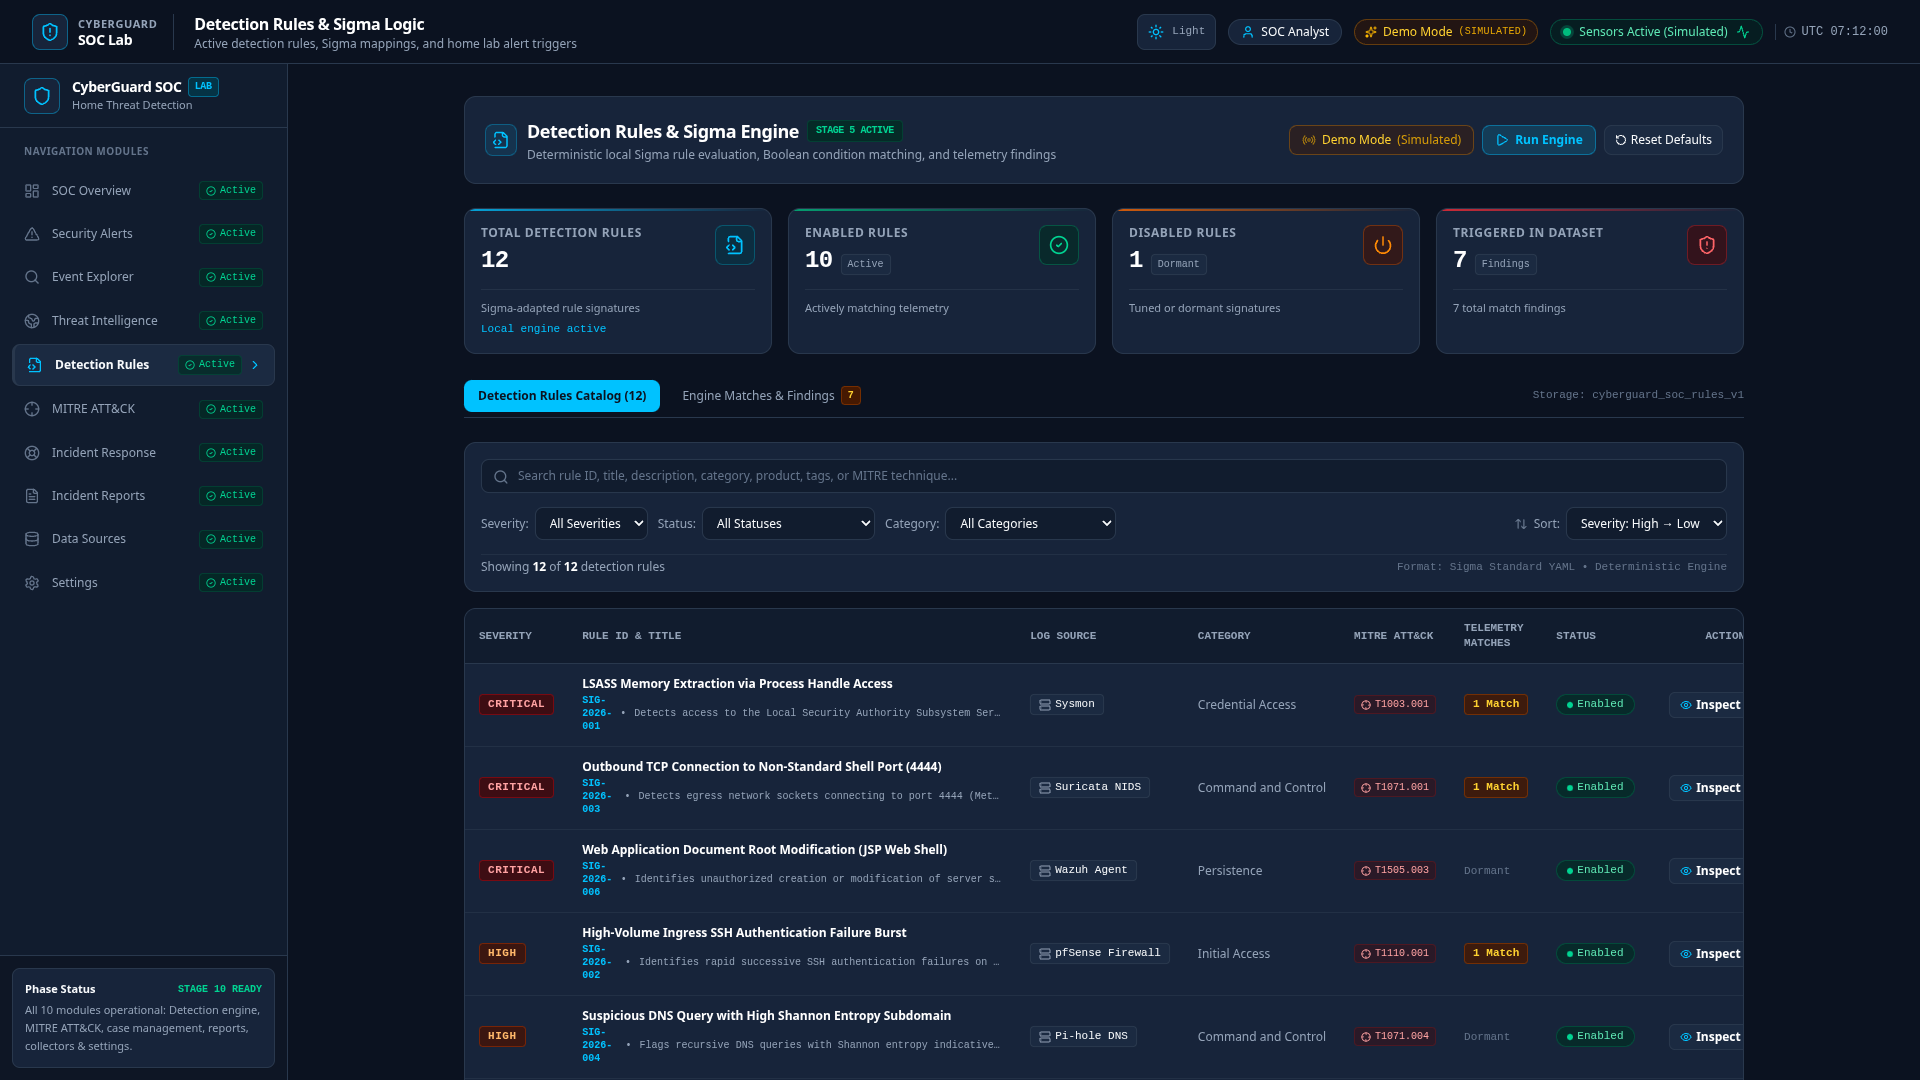
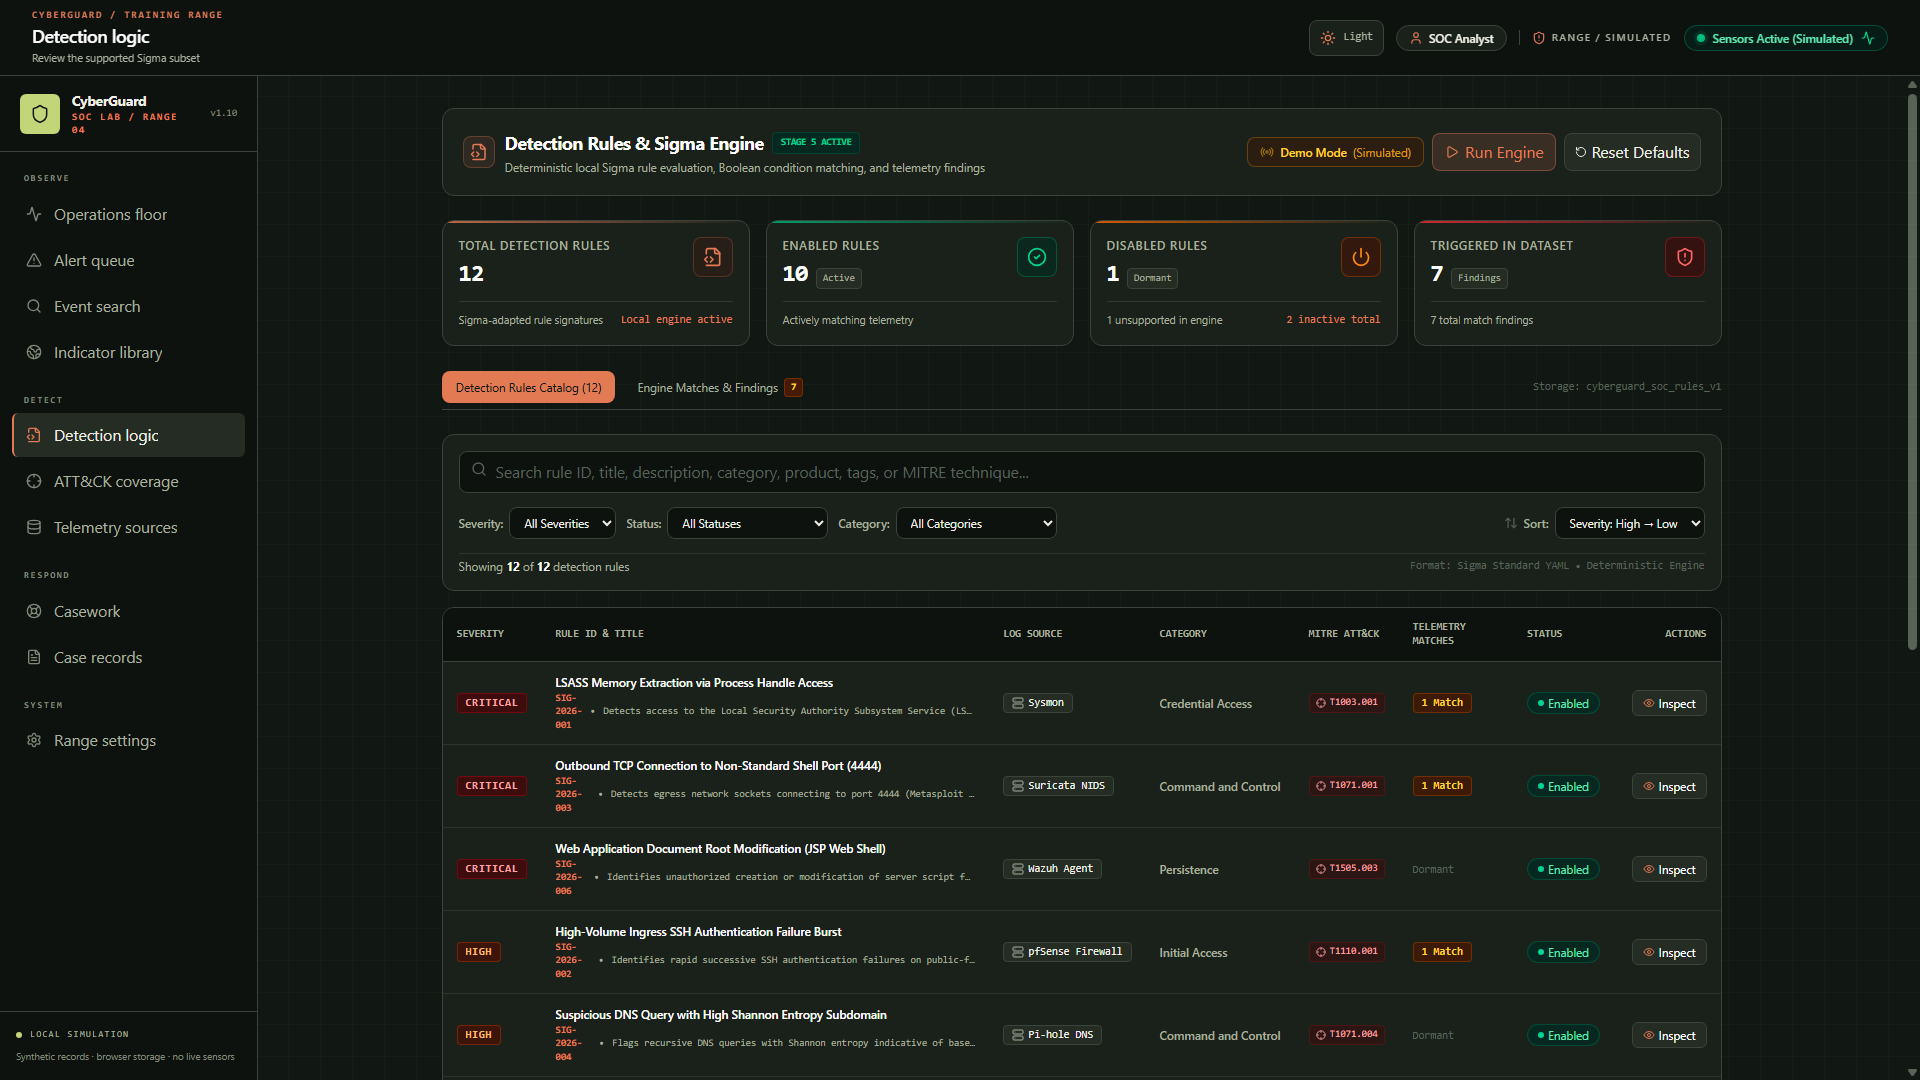
Refresh screenshots for operations workbench UI

diff --git a/docs/screenshots/README.md b/docs/screenshots/README.md
@@ -10,22 +10,18 @@ The 12 standardized screenshot assets included in this repository are:
 
 | # | Filename | Module & Description | Theme | Resolution |
 |---|---|---|---|---|
-| 01 | `01-soc-overview-dark.png` | Stage 1: SOC Overview Dashboard (KPI cards, Telemetry Trends, Severity Breakdown, Recent Events) | Dark Mode | 1920 × 1080 |
-| 02 | `02-security-alerts-dark.png` | Stage 2: Security Alerts Triage Queue (Alert filters, queue table, severity pills) | Dark Mode | 1920 × 1080 |
-| 03 | `03-event-explorer-dark.png` | Stage 3: Event Explorer (Telemetry table, log source filters, pagination) | Dark Mode | 1920 × 1080 |
-| 04 | `04-threat-intelligence-dark.png` | Stage 4: Threat Intelligence & Risk Analysis (Defanged IOCs, risk scores, confidence indicators) | Dark Mode | 1920 × 1080 |
-| 05 | `05-sigma-detection-rules-dark.png` | Stage 5: Sigma Detection Rules (Catalog, local engine status, toggle controls, findings) | Dark Mode | 1920 × 1080 |
-| 06 | `06-mitre-attack-dark.png` | Stage 6: MITRE ATT&CK Mapping (Curated Enterprise matrix grid, coverage breakdown) | Dark Mode | 1920 × 1080 |
-| 07 | `07-incident-response-dark.png` | Stage 7: Incident Response (Incident case queue, priorities, lifecycle statuses) | Dark Mode | 1920 × 1080 |
-| 08 | `08-incident-reports-dark.png` | Stage 8: Incident Reports (Investigation reports archive and status overview) | Dark Mode | 1920 × 1080 |
-| 09 | `09-data-sources-dark.png` | Stage 9: Data Sources & Log Collectors (Simulated collector health cards & statuses) | Dark Mode | 1920 × 1080 |
-| 10 | `10-settings-dark.png` | Stage 10: Settings & Simulation Controls (Storage & System Information breakdown) | Dark Mode | 1920 × 1080 |
-| 11 | `11-soc-overview-light.png` | Stage 1: SOC Overview Dashboard in High-Contrast Light Mode | Light Mode | 1920 × 1080 |
-| 12 | `12-light-mode-overview.png` | Stage 2: Security Alerts & Triage Queue in High-Contrast Light Mode | Light Mode | 1920 × 1080 |
+| 01 | `01-operations-floor-dark.png` | Operations floor with focus case, alert triage, range metrics, activity and source health | Dark Mode | 1920 × 1080 |
+| 02 | `02-security-alerts-dark.png` | Alert queue with search, filters, severity, ownership and triage actions | Dark Mode | 1920 × 1080 |
+| 03 | `03-event-explorer-dark.png` | Event search with telemetry filters, results table and pagination | Dark Mode | 1920 × 1080 |
+| 04 | `04-threat-intelligence-dark.png` | Indicator library with risk scores, confidence and correlation details | Dark Mode | 1920 × 1080 |
+| 05 | `05-sigma-detection-rules-dark.png` | Detection logic catalog with rule state, findings and supported Sigma subset | Dark Mode | 1920 × 1080 |
+| 06 | `06-mitre-attack-dark.png` | ATT&CK coverage with tactic matrix and linked detections | Dark Mode | 1920 × 1080 |
+| 07 | `07-incident-response-dark.png` | Casework queue with investigation status and response actions | Dark Mode | 1920 × 1080 |
+| 08 | `08-incident-reports-dark.png` | Case records with report status, review and export actions | Dark Mode | 1920 × 1080 |
+| 09 | `09-data-sources-dark.png` | Telemetry sources with collector health and ingestion controls | Dark Mode | 1920 × 1080 |
+| 10 | `10-settings-dark.png` | Range settings with preferences, local storage and simulation controls | Dark Mode | 1920 × 1080 |
+| 11 | `11-operations-floor-light.png` | Operations floor in the light theme | Light Mode | 1920 × 1080 |
+| 12 | `12-alert-queue-light.png` | Alert queue in the light theme | Light Mode | 1920 × 1080 |
 
 ## Refreshing Screenshots
-To recapture screenshots after future UI updates:
-1. Start the local server: `bun run dev` (or `npm run dev`).
-2. Open `http://localhost:3000` in a desktop browser at 1080p resolution (1920 × 1080, 100% zoom).
-3. Capture genuine full-viewport screenshots for each module.
-4. Save the PNG files into this folder matching the exact filenames listed above.
+These genuine app captures use a 1920 × 1080 viewport. To refresh them after a UI change, run the app, select each view from the sidebar, capture both themes for the operations floor and alert queue, and save the PNGs using the filenames above.

diff --git a/README.md b/README.md
@@ -46,9 +46,9 @@ The editable Mermaid source is available at [docs/soc-lab-architecture.mmd](docs
 
 > Screenshot assets are cataloged in [`docs/screenshots/`](docs/screenshots/README.md).
 
-| SOC Overview (Dark Mode) | Security Alerts Triage (Dark Mode) |
+| Operations Floor (Dark Mode) | Security Alerts (Dark Mode) |
 | :---: | :---: |
-| ![SOC Overview](docs/screenshots/01-soc-overview-dark.png) | ![Security Alerts](docs/screenshots/02-security-alerts-dark.png) |
+| ![Operations Floor](docs/screenshots/01-operations-floor-dark.png) | ![Security Alerts](docs/screenshots/02-security-alerts-dark.png) |
 
 | Event Explorer (Dark Mode) | Threat Intelligence (Dark Mode) |
 | :---: | :---: |
@@ -66,9 +66,9 @@ The editable Mermaid source is available at [docs/soc-lab-architecture.mmd](docs
 | :---: | :---: |
 | ![Data Sources](docs/screenshots/09-data-sources-dark.png) | ![Settings](docs/screenshots/10-settings-dark.png) |
 
-| SOC Overview (Light Mode) | Security Alerts Triage Queue (Light Mode) |
+| Operations Floor (Light Mode) | Alert Queue (Light Mode) |
 | :---: | :---: |
-| ![SOC Overview Light](docs/screenshots/11-soc-overview-light.png) | ![Security Alerts Triage Light](docs/screenshots/12-light-mode-overview.png) |
+| ![Operations Floor Light](docs/screenshots/11-operations-floor-light.png) | ![Alert Queue Light](docs/screenshots/12-alert-queue-light.png) |
 
 ---
 
